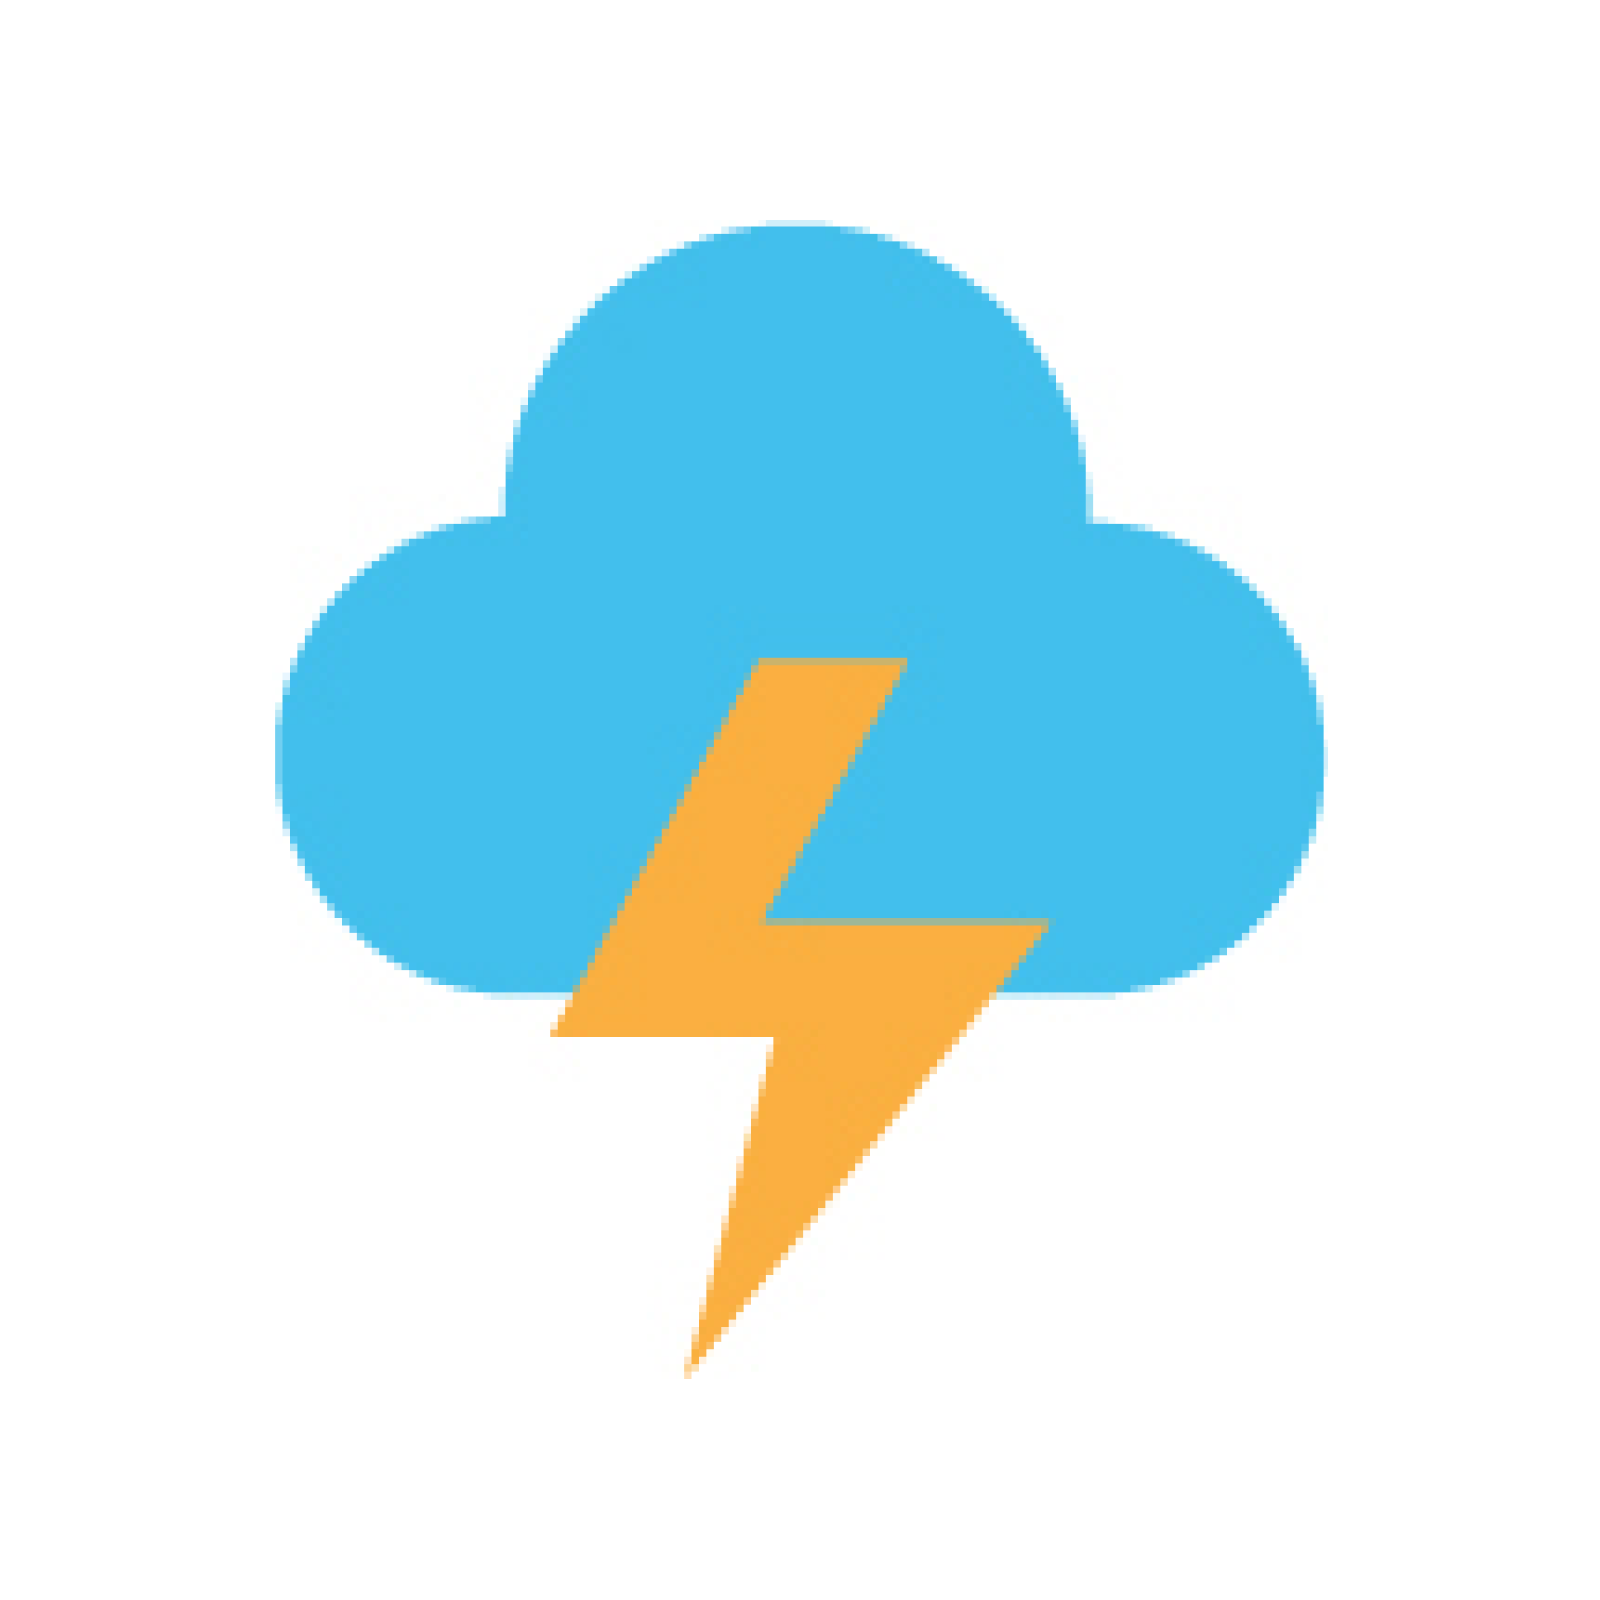
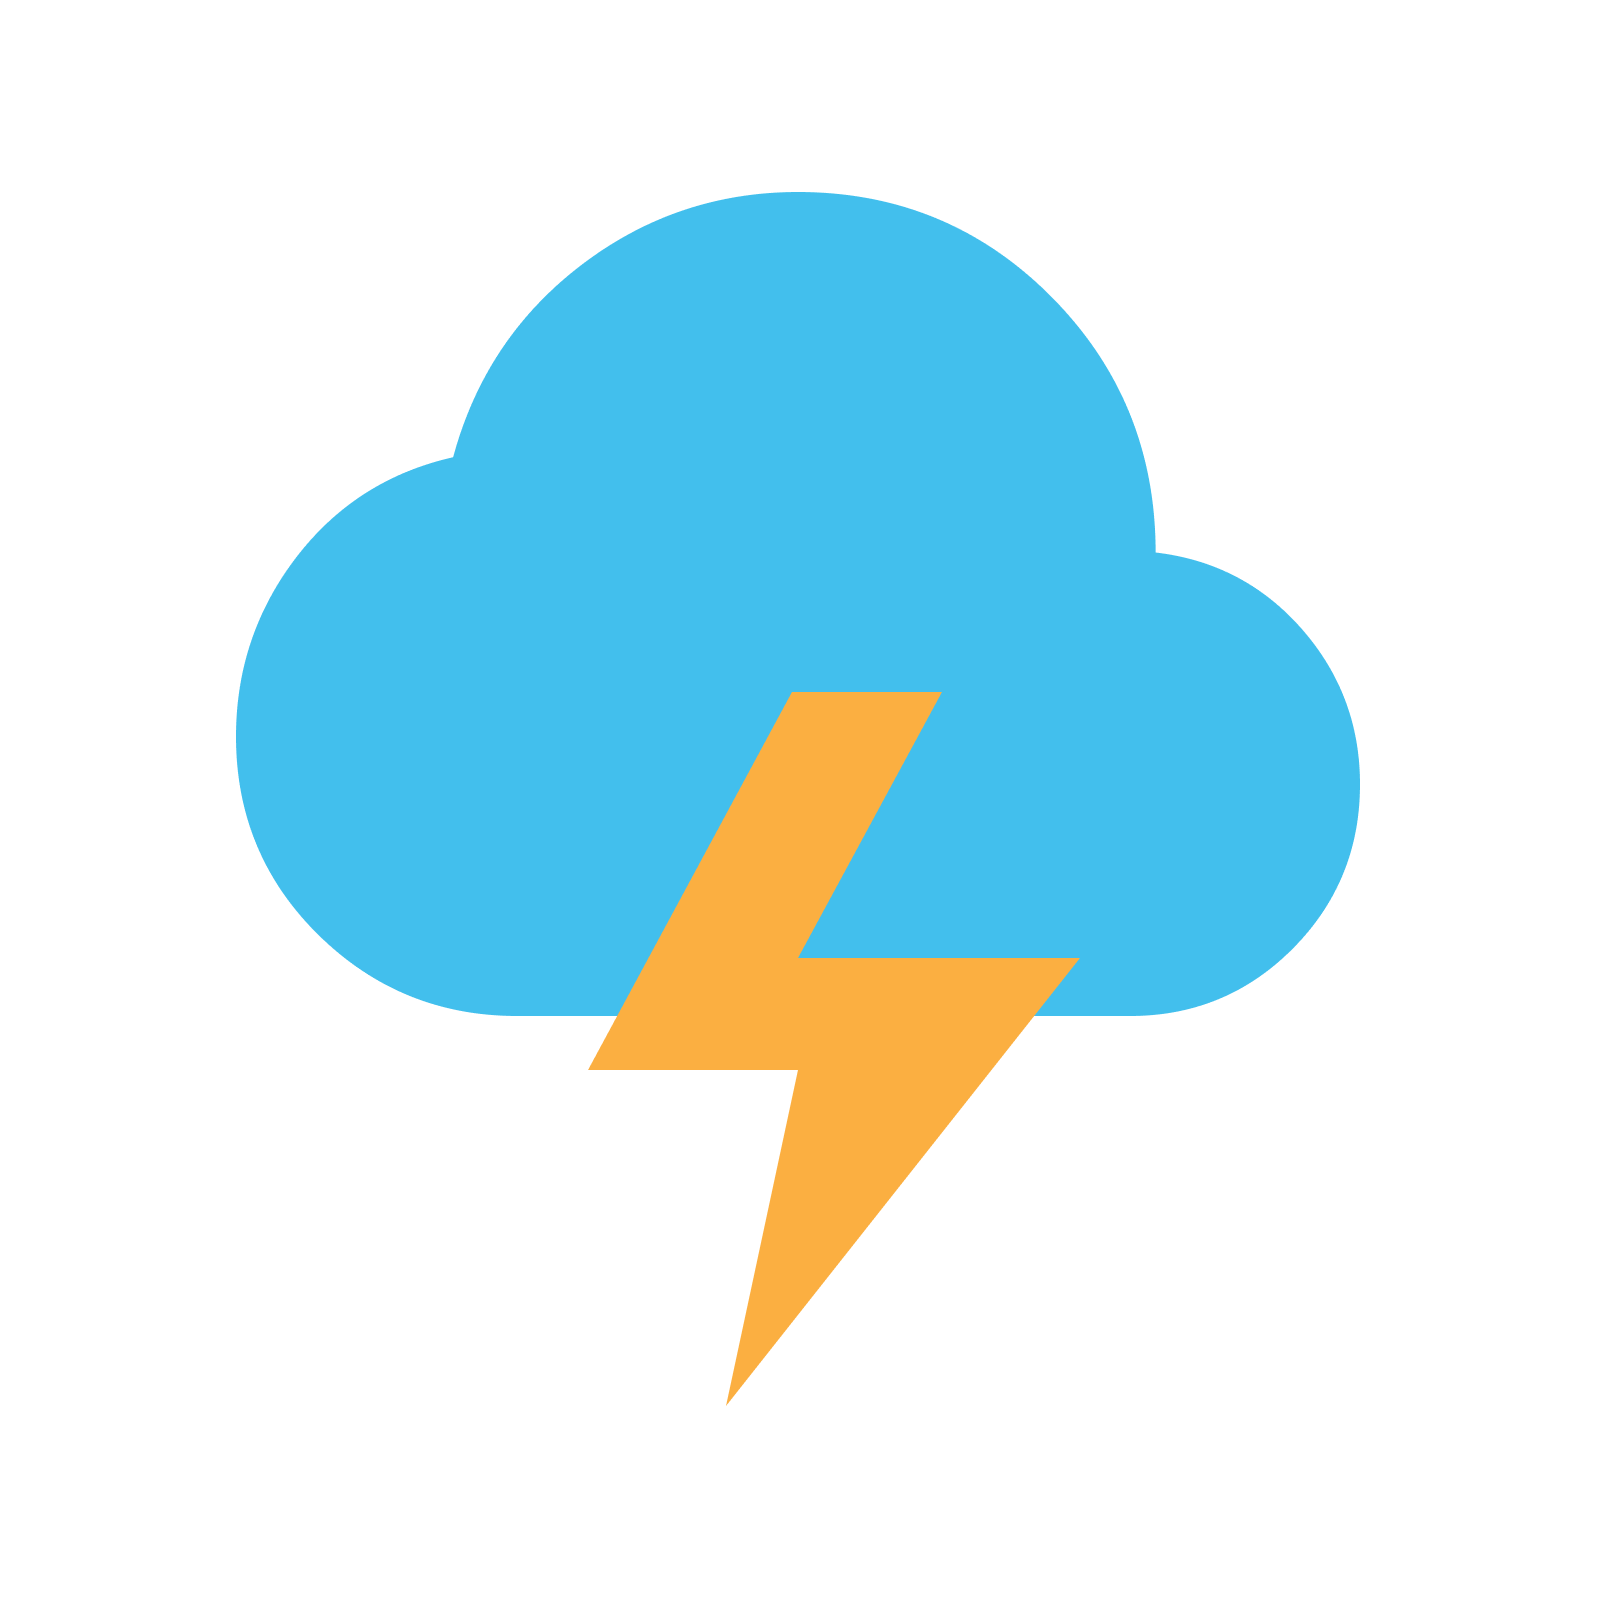
Ajout photos de meilleur résolution + traduction
- remplacement des anciennes photos dans /profil_pictures par des nouvelles de meilleur résolution
- changement de l'icon de l'application par une des nouvelles images
- changement de langue de l'application en français

Changed region(s): [[0.125, 0.0938, 0.875, 0.875], [0.7812, 0.375, 0.8125, 0.4062]]

diff --git a/application.py b/application.py
@@ -6,7 +6,7 @@ from functools import partial
 
 """
  Warning : This application is currently in Alpha version which
-means that code isn't optimized and their might have some bugs. 
+means that code isn't optimized and their might have some bugs.
 """
 
 class Worker(QObject):
@@ -31,22 +31,23 @@ class App(QtWidgets.QWidget):
         super().__init__()
 
         # --- Windows settings ---
-        self.setWindowIcon(QtGui.QIcon(CUR_DIR + '\\profil_pictures\\icon.png'))
-        self.setWindowTitle("Weather Bot - Publisher")
-        self.setMinimumSize(QtCore.QSize(300, 200))
+        self.setWindowIcon(QtGui.QIcon(CUR_DIR + '\\profil_pictures\\couvert.png'))
+        self.setWindowTitle("Weather Bot - Publication")
+        self.setMinimumSize(QtCore.QSize(330, 280))
+        self.setMaximumSize(QtCore.QSize(400, 200))
 
         # --- Create components ---
         self.main_layout = QtWidgets.QVBoxLayout(self)
-        self.lbl_city = QtWidgets.QLabel("Choose a city:")
+        self.lbl_city = QtWidgets.QLabel("Choisissez une ville :")
         self.le_city = QtWidgets.QLineEdit(self)
-        self.cbox_use_schedule = QtWidgets.QCheckBox("Publish a Tweet only at the following hours")
-        self.lbl_hour1 = QtWidgets.QLabel("Choose a first schedule (optional):")
+        self.cbox_use_schedule = QtWidgets.QCheckBox("Publier un Tweet seulement pour les horaires suivants")
+        self.lbl_hour1 = QtWidgets.QLabel("Choisissez un horaire (optionnel) :")
         self.le_hour1 = QtWidgets.QLineEdit()
-        self.lbl_hour2 = QtWidgets.QLabel("Choose a second schedule (optional):")
+        self.lbl_hour2 = QtWidgets.QLabel("Choisissez un horaire (optionnel) :")
         self.le_hour2 = QtWidgets.QLineEdit()
-        self.lbl_hour3 = QtWidgets.QLabel("Choose a third schedule (optional):")
+        self.lbl_hour3 = QtWidgets.QLabel("Choisissez un horaire (optionnel) :")
         self.le_hour3 = QtWidgets.QLineEdit()
-        self.btn_run = QtWidgets.QPushButton("Run")
+        self.btn_run = QtWidgets.QPushButton("Exécuter")
 
         # --- Add components to layout ---
         self.main_layout.addWidget(self.lbl_city)
@@ -105,7 +106,7 @@ class App(QtWidgets.QWidget):
             self.thread.start()
 
             # Disable components
-            self.btn_run.setText("Running...")
+            self.btn_run.setText("En cours...")
             self.disableAllComponents()
 
         else:
@@ -118,11 +119,11 @@ class App(QtWidgets.QWidget):
 
             # Change btn_run text and disable btn_run when thread start
             self.btn_run.setEnabled(False)
-            self.btn_run.setText("Running...")
+            self.btn_run.setText("En cours...")
 
             # Change btn_run text and disable btn_run when thread stop
             self.thread.finished.connect(lambda: self.btn_run.setEnabled(True))
-            self.thread.finished.connect(lambda: self.btn_run.setText("Run"))
+            self.thread.finished.connect(lambda: self.btn_run.setText("Exécuter"))
 
 if __name__ == '__main__':
     app = QtWidgets.QApplication([])

diff --git a/main.py b/main.py
@@ -50,7 +50,7 @@ def updateProfilPicture(weather):
     directory = CUR_DIR + '\\profil_pictures\\'
 
     if weather == 'ciel dégagé':
-        AuthTweepy().update_profile_image(f'{directory}ciel_degage.png')
+        AuthTweepy().update_profile_image(f'{directory}soleil.png')
     elif weather in ['couvert', 'peu nuageux', 'partiellement nuageux']:
         AuthTweepy().update_profile_image(f'{directory}couvert.png')
     elif weather == 'nuageux':
